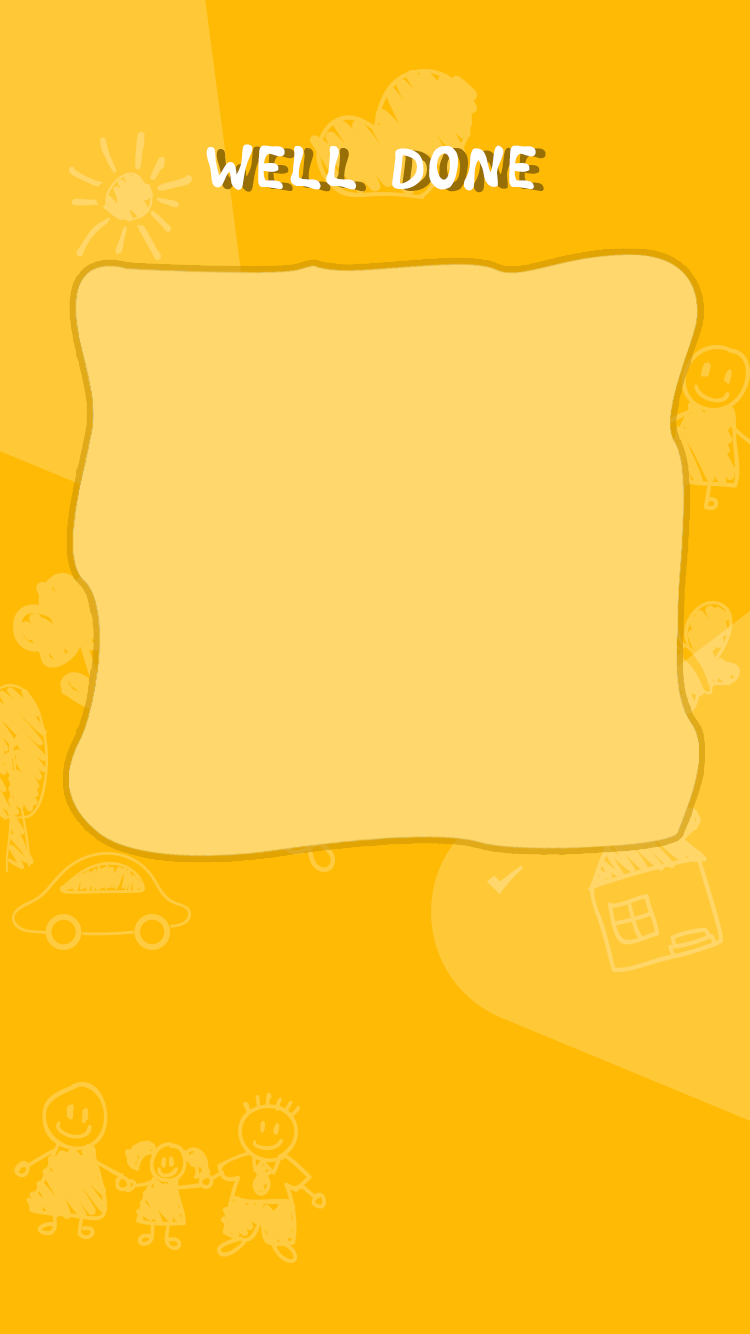
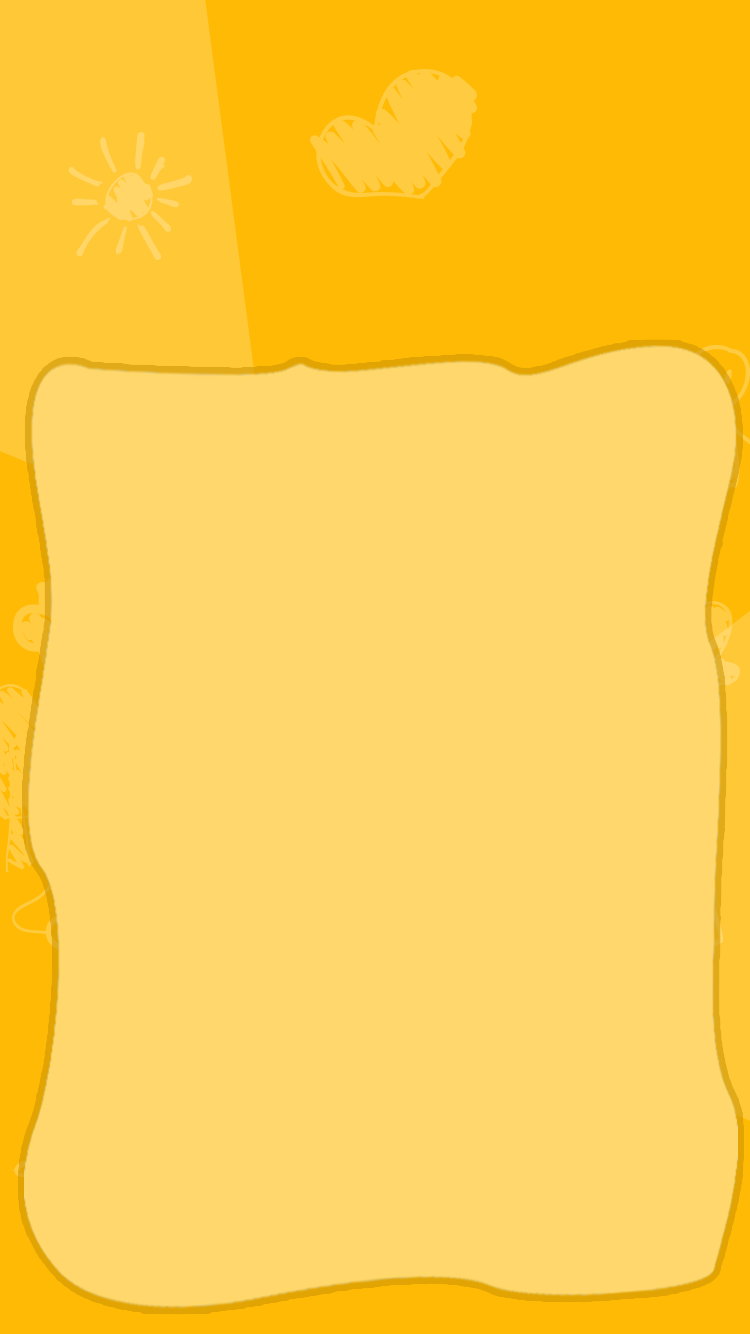
Quick Updated
Added more details to Game Over scene

diff --git a/BaileyDemo/core/src/com/mygdx/game/GameScreen.java b/BaileyDemo/core/src/com/mygdx/game/GameScreen.java
@@ -551,14 +551,14 @@ public class GameScreen extends ScreenAdapter {
                     String temp = "";
                     String temp_time = "";
                     if(gameMode.matches("Regular")) {
-                        temp = "Drawing Topic: " + game.getGameLobby().getWordTopic() + "\nYour turn to draw! ";
+                        temp = game.getGameLobby().getWordTopic() + "\nYour turn to draw! ";
                         temp_time = ""+ (Math.round(turnLength - turnTimer));
                     }
                     else{
-                        temp = "Drawing Topic: " + game.getGameLobby().getWordTopic() + "\nYour turn to draw!\nOne line mode..";
+                        temp = game.getGameLobby().getWordTopic() + "\nYour turn to draw!\nOne line mode..";
                     }
                     String temp2 = "\nReceived: " + received + "\nSent: " + sent + "\nDrawn amount = :" + drawnAmount;
-                    fontLarge.draw(game.getBatch(), temp, Gdx.graphics.getWidth() / 2 - 165, Gdx.graphics.getHeight() - 10);
+                    dbfont.draw(game.getBatch(), temp, Gdx.graphics.getWidth() / 2 - 165, Gdx.graphics.getHeight() - 10);
                     dbSmallFont.draw(game.getBatch(), temp_time, Gdx.graphics.getWidth() / 2 + 130, Gdx.graphics.getHeight() - 125);
                  //   font.draw(game.getBatch(), temp2, 0, 200);
                     if(gameMode.matches("Regular")) {
@@ -572,14 +572,14 @@ public class GameScreen extends ScreenAdapter {
                     String temp = "";
                     String temp_time = "";
                     if(gameMode.matches("Regular")) {
-                        temp = "Drawing Topic: " + game.getGameLobby().getWordTopic() + "\nYour partner is drawing!";
+                        temp = game.getGameLobby().getWordTopic() + "\nYour partner is drawing!";
                         temp_time = ""+ (Math.round(turnLength - turnTimer));
                     }
                     else{
-                        temp = "Drawing Topic: " + game.getGameLobby().getWordTopic() + "\nYour partner is drawing!\nOne line mode..";
+                        temp = game.getGameLobby().getWordTopic() + "\nYour partner is drawing!\nOne line mode..";
                     }
                     String temp2 = "\nReceived: " + received + "\nSent: " + sent + "\nDrawn amount = :" + drawnAmount;
-                    fontLarge.draw(game.getBatch(), temp, Gdx.graphics.getWidth() / 2 - 165, Gdx.graphics.getHeight() - 10);
+                    dbfont.draw(game.getBatch(), temp, Gdx.graphics.getWidth() / 2 - 165, Gdx.graphics.getHeight() - 10);
                     dbSmallFont.draw(game.getBatch(), temp_time, Gdx.graphics.getWidth() / 2 + 130, Gdx.graphics.getHeight() - 125);
                     // font.draw(game.getBatch(), temp2, 0, 200);
                 }

diff --git a/BaileyDemo/core/src/com/mygdx/game/PostGame.java b/BaileyDemo/core/src/com/mygdx/game/PostGame.java
@@ -4,11 +4,15 @@ import com.badlogic.gdx.Gdx;
 import com.badlogic.gdx.ScreenAdapter;
 import com.badlogic.gdx.graphics.Color;
 import com.badlogic.gdx.graphics.GL20;
+import com.badlogic.gdx.graphics.Texture;
 import com.badlogic.gdx.graphics.g2d.BitmapFont;
+import com.badlogic.gdx.graphics.g2d.SpriteBatch;
+import com.badlogic.gdx.graphics.g2d.TextureRegion;
 import com.badlogic.gdx.graphics.glutils.ShapeRenderer;
 import com.badlogic.gdx.scenes.scene2d.InputEvent;
 import com.badlogic.gdx.scenes.scene2d.InputListener;
 import com.badlogic.gdx.scenes.scene2d.Stage;
+import com.badlogic.gdx.scenes.scene2d.ui.Image;
 import com.badlogic.gdx.scenes.scene2d.ui.SelectBox;
 import com.badlogic.gdx.scenes.scene2d.ui.Skin;
 import com.badlogic.gdx.scenes.scene2d.ui.TextButton;
@@ -26,6 +30,11 @@ public class PostGame extends ScreenAdapter {
     private TextButton twitterPost;
     private TextButton instagramPost;
     private TextButton exitToMenu;
+
+    private Texture tex;
+    private Image image;
+    private TextureRegion region;
+    private SpriteBatch batch;
 
     private Stage stage;
     private Skin mySkin;
@@ -46,6 +55,10 @@ public class PostGame extends ScreenAdapter {
         font = new BitmapFont(Gdx.files.internal("font/dbfont.fnt"),
                 Gdx.files.internal("font/dbfont.png"), false);
         font.setColor(Color.BLACK);
+
+        //Adding Background (new)
+        tex = new Texture(Gdx.files.internal("image/gameFinish.png"));
+        batch = new SpriteBatch();
 
         game.setListener(getListener());
         shapeRenderer = new ShapeRenderer();
@@ -138,6 +151,9 @@ public class PostGame extends ScreenAdapter {
         game.getBatch().begin();
         Gdx.gl.glClearColor(1.0f, 1.0f, 1.0f, 1);
         Gdx.gl.glClear(GL20.GL_COLOR_BUFFER_BIT);
+        batch.begin();
+        batch.draw(tex,0,0,360,750);
+        batch.end();
 
         stage.act();
         stage.draw();
